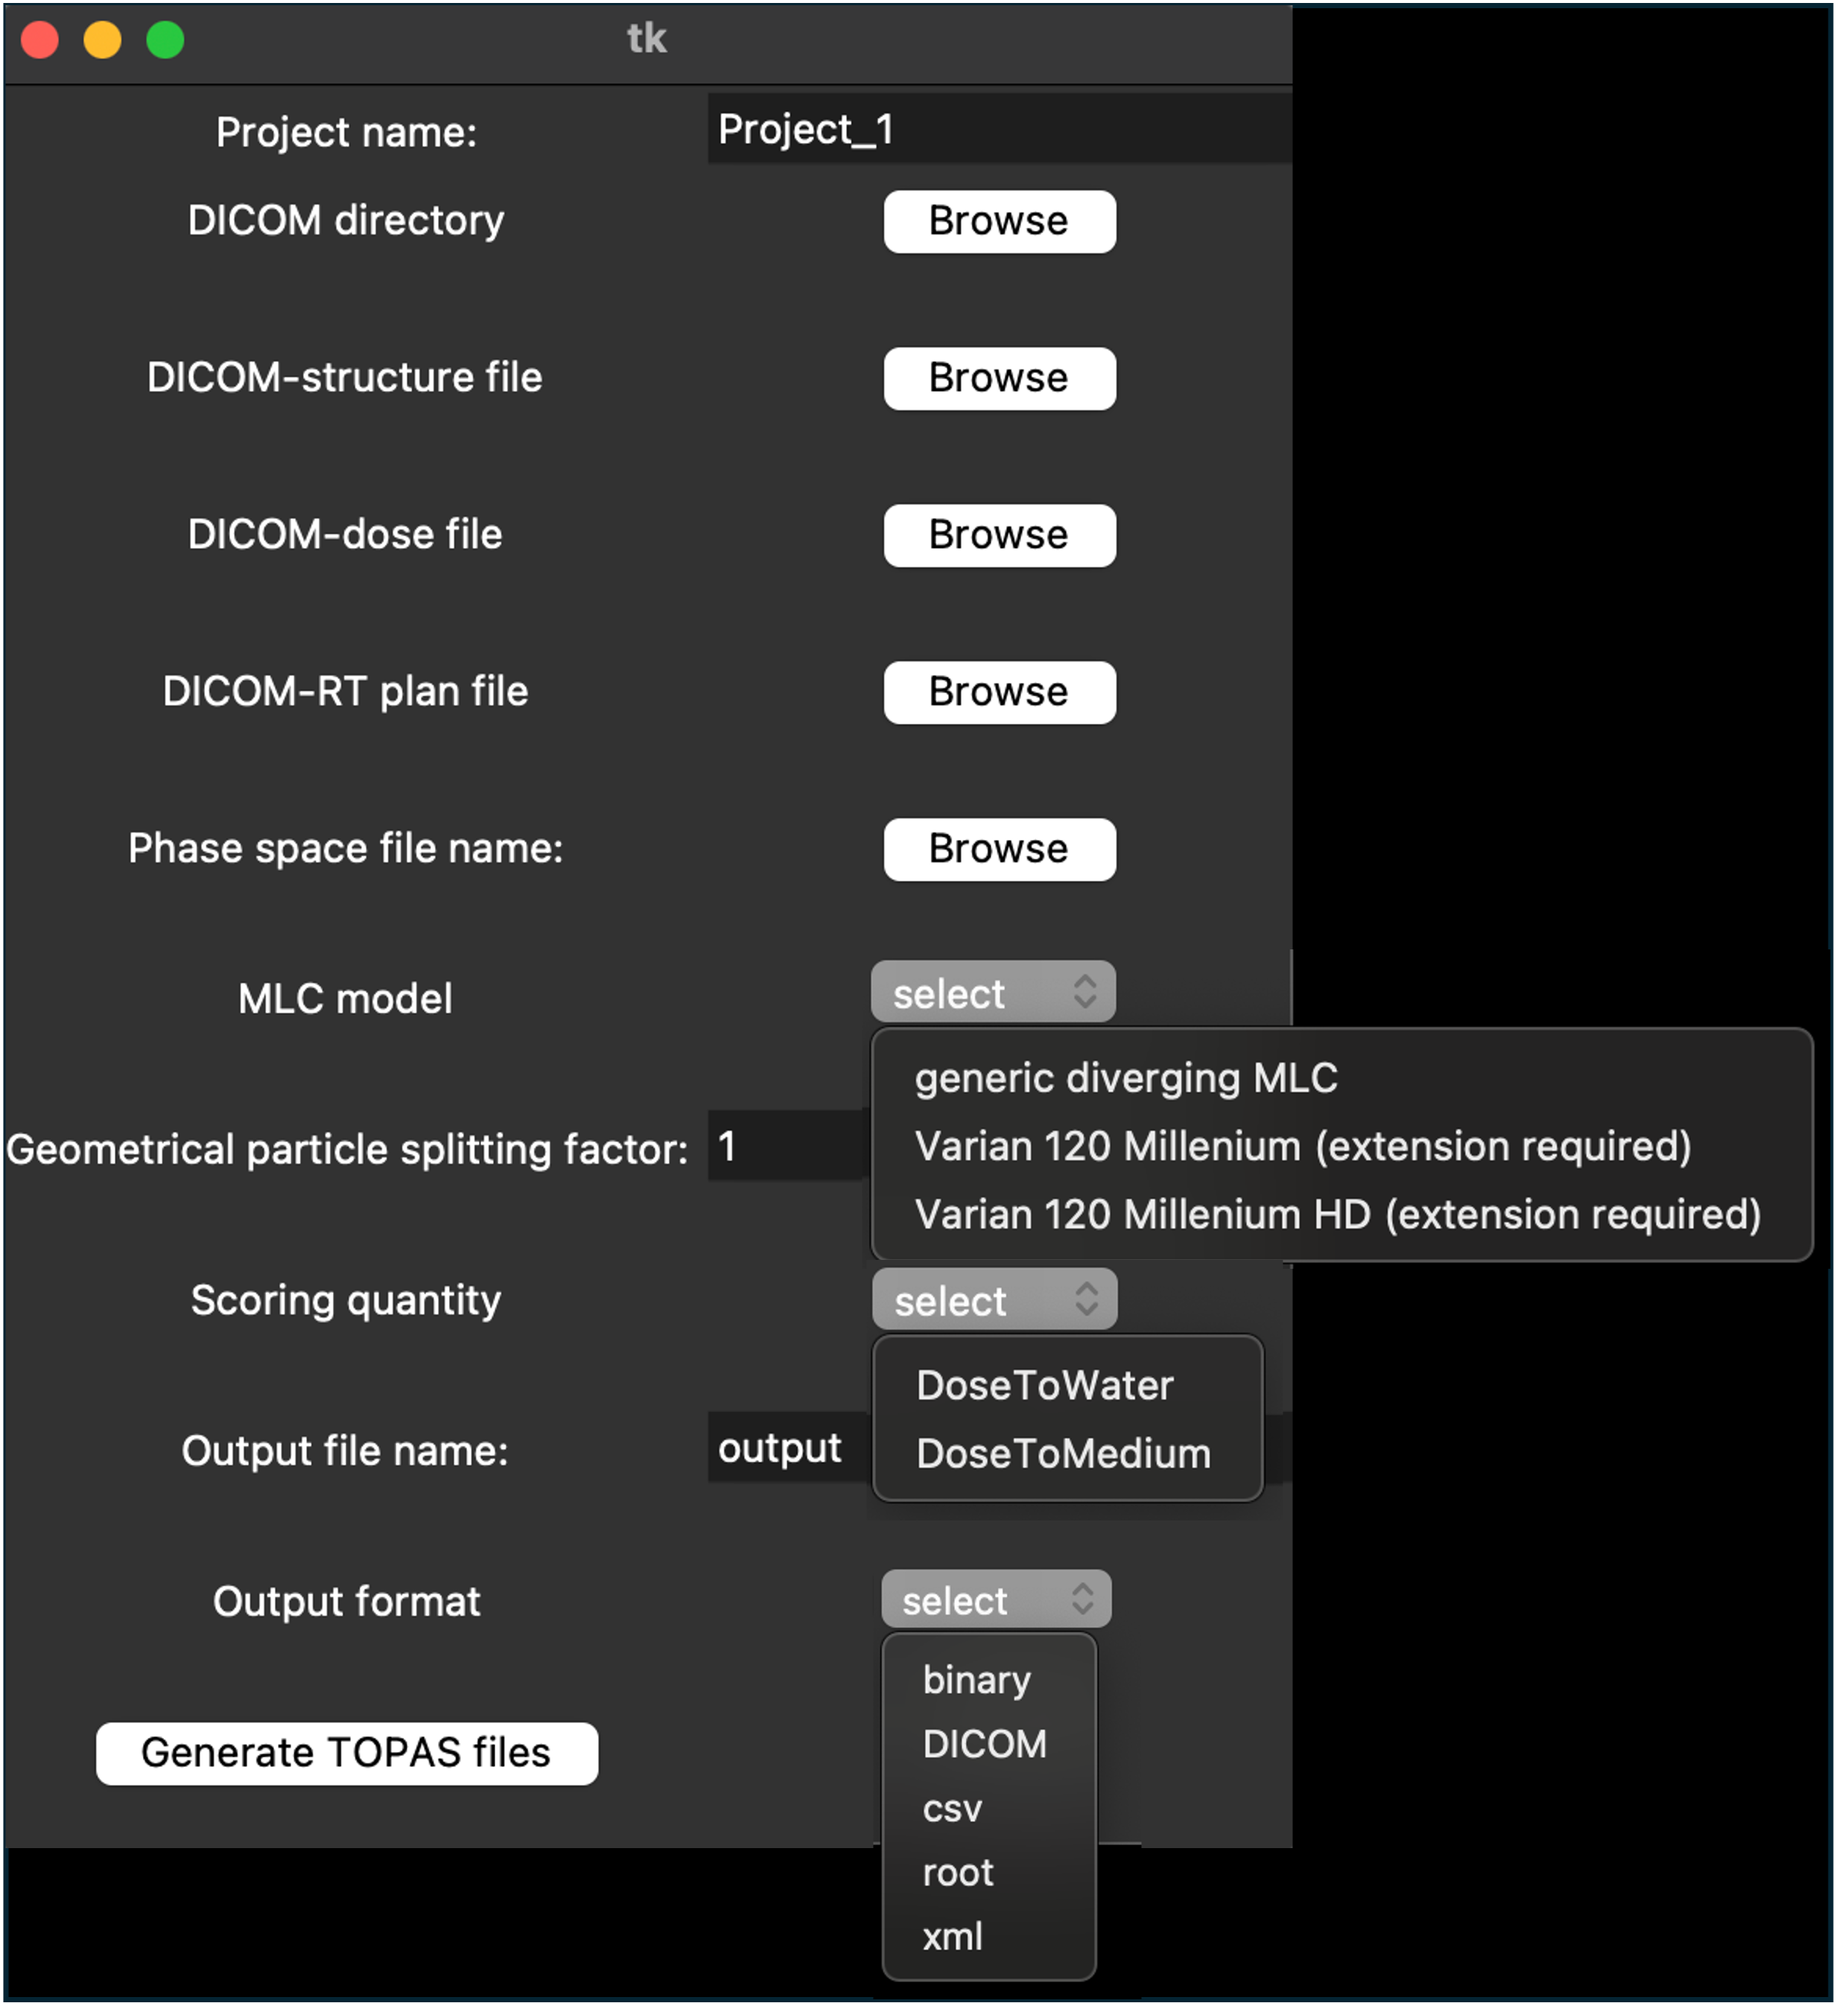
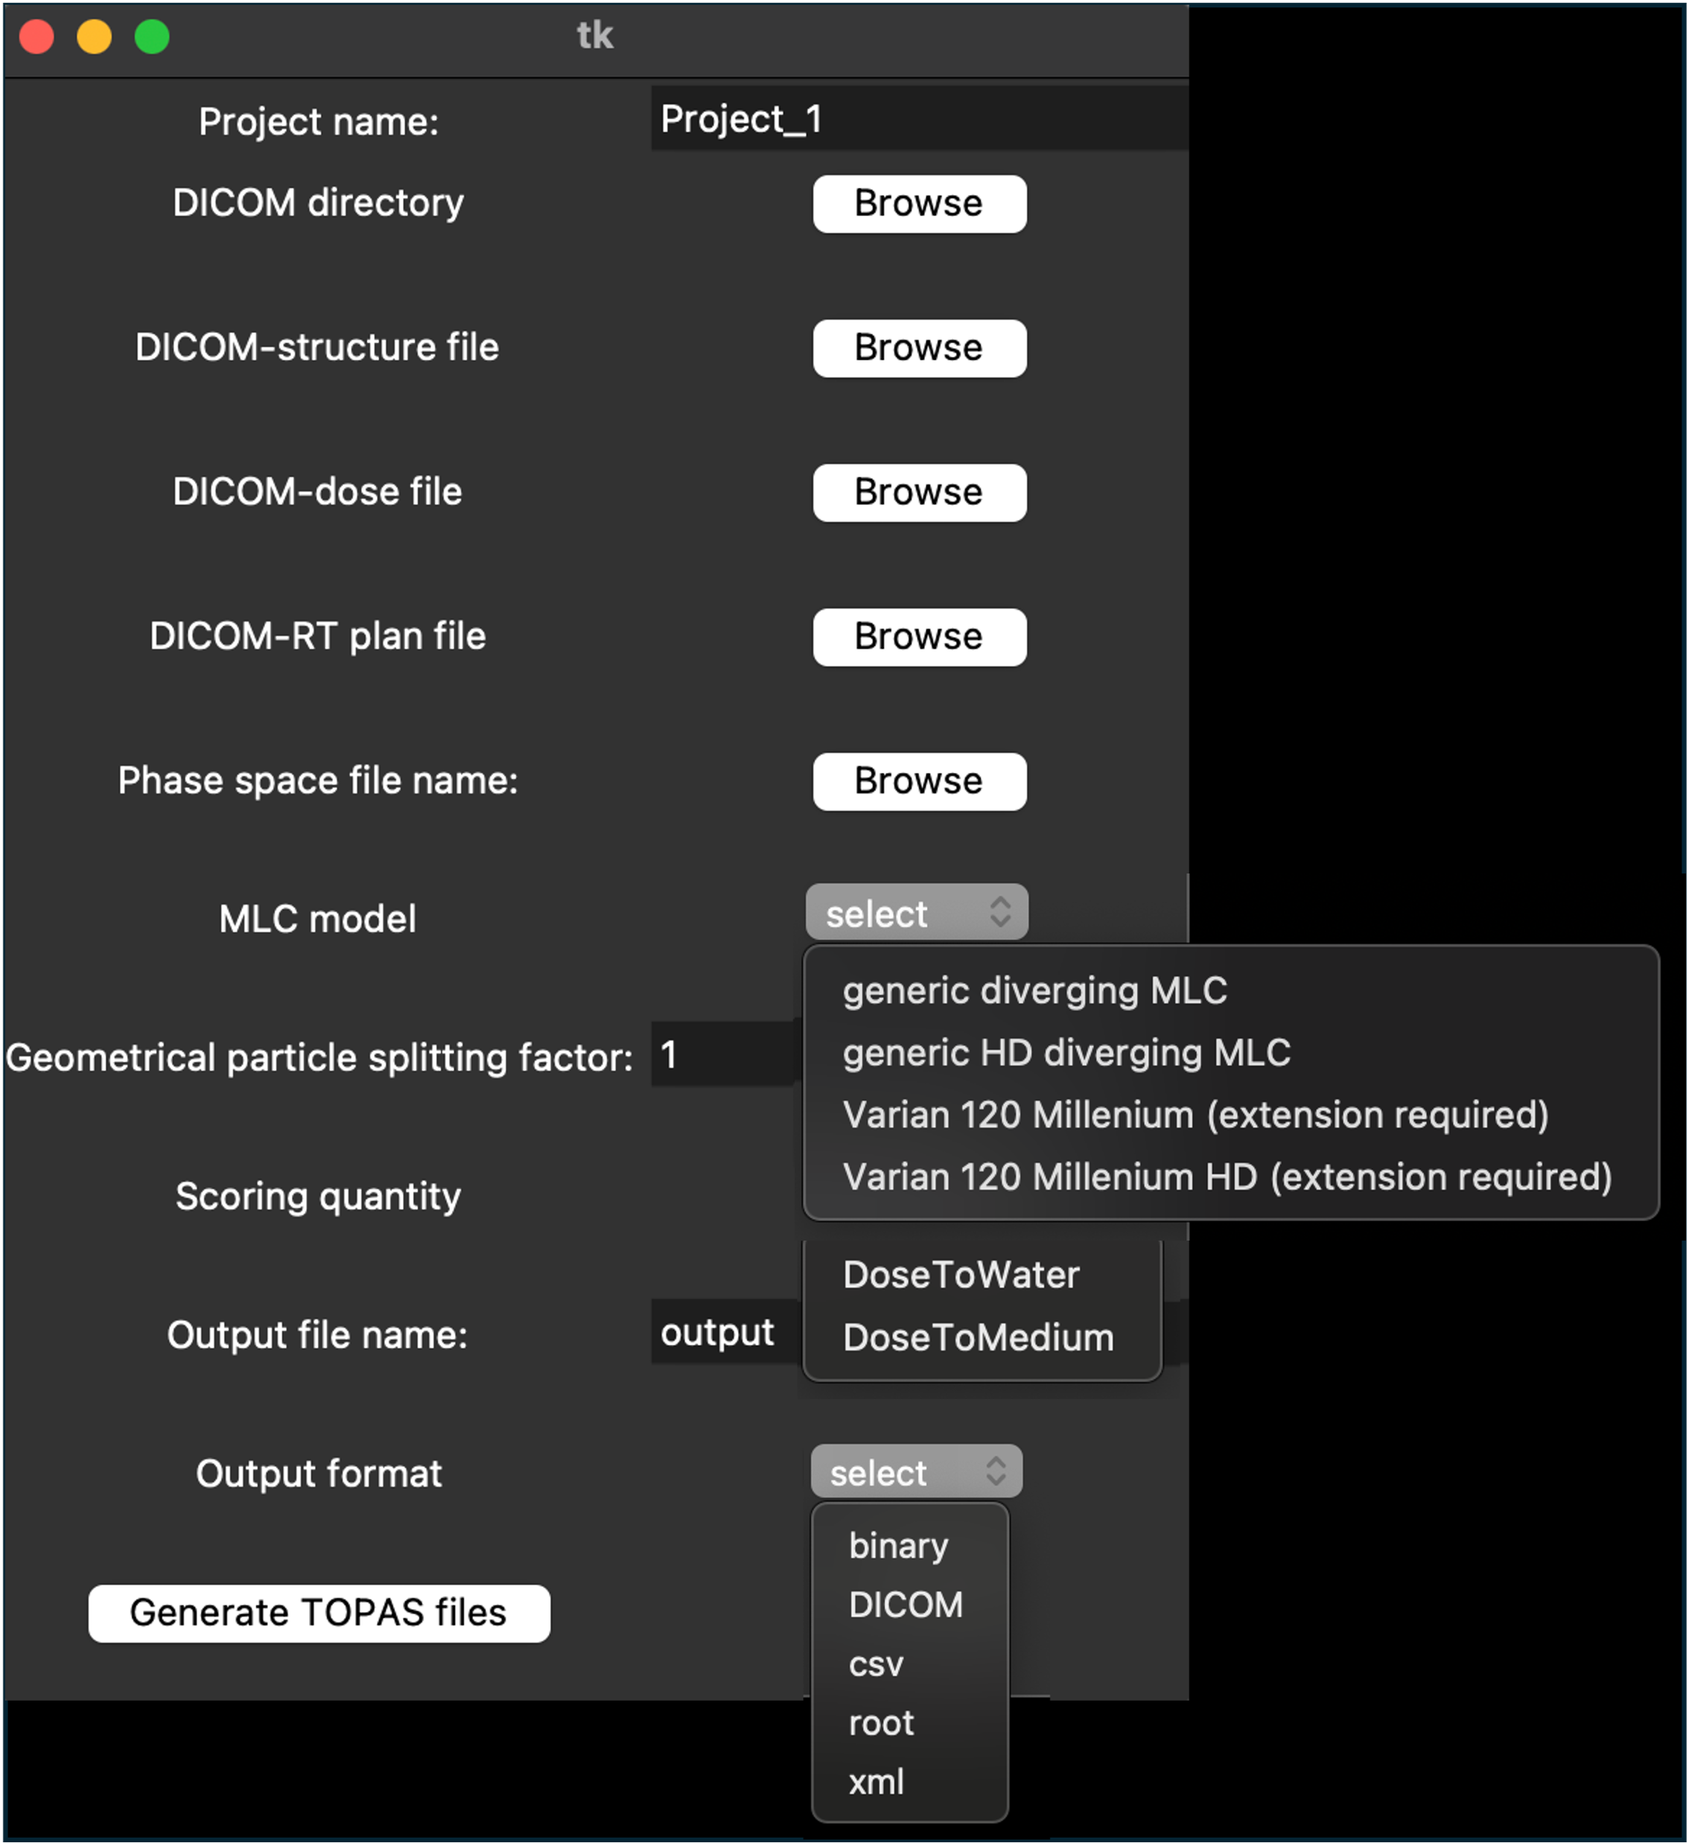
changes to include genericHD MLC

Changed region(s): [[0.463, 0.4667, 1.0, 0.6844]]

diff --git a/write_PCF.py b/write_PCF.py
@@ -162,7 +162,7 @@ def WritePlanParameterFile(DATA,CT_DATA,PLAN_DATA):
     parFile.write('d:Ge/PhSpY2 = 0.75 * Tf/JawY2/Value cm\n')
     parFile.write('\n')
     parFile.write('\n')
-    if DATA["MLC_model"] == "generic":
+    if DATA["MLC_model"] == "generic" or DATA["MLC_model"] == "generichd":
         parFile.write('dv:Ge/MLC/NegativeFieldSetting = 60 ')
         for i in range(1,60+1,1):
             parFile.write('Tf/MLCX1_%d/Value ' % i)
@@ -319,11 +319,18 @@ def WriteGeometryFile(DATA,ROI_DATA):
     if DATA["MLC_model"] == "VarianMillenium" or DATA["MLC_model"] == "VarianMilleniumHD":
         parFile.write('d:Ge/MLCPos/TransZ = 49.02 cm\n')
     parFile.write('\n')
-    generic_thickness   = 5.61 # cm
-    generic_distToIso   = 49.02
-    generic_SAD         = 100.0
-    generic_SUSD        = generic_SAD - generic_distToIso - generic_thickness*0.5
-    if DATA["MLC_model"] == "generic":
+    
+    if DATA["MLC_model"] == "generic" or DATA["MLC_model"] == "generichd":
+        parFile.write(' # --- %s selected\n' %(DATA["MLC_model"]))
+        parFile.write('### IMPORTANT NOTE\n')
+        parFile.write('#    generic and genericHD specifications from literature (see write_PCF.py for references)\n')
+        parFile.write('#    user: change values if more accurate data is available\n')
+        parFile.write('\n')
+        generic_thickness     = 6.7 # cm
+        genericHD_thickness   = 6.9 # cm
+        generic_distToIso     = 49.0 # cm 
+        generic_SAD           = 100.0 # cm
+        generic_SUSD          = generic_SAD - generic_distToIso - generic_thickness*0.5       
         parFile.write('s:Ge/MLC/Type = "TsDivergingMLC"\n')
         parFile.write('s:Ge/MLC/Parent = "MLCPos"\n')
         parFile.write('s:Ge/MLC/Material = "G4_W"\n')
@@ -332,19 +339,29 @@ def WriteGeometryFile(DATA,ROI_DATA):
         parFile.write('d:Ge/MLC/SAD = %s cm\n' %generic_SAD)
         parFile.write('d:Ge/MLC/SourceToUpstreamSurfaceDistance = %s cm\n' %generic_SUSD)
         parFile.write('d:Ge/MLC/DistSourceToSAD = Ge/MLC/SAD - Ge/MLC/SourceToUpstreamSurfaceDistance cm\n')
-        parFile.write('d:Ge/MLC/Thickness = %s cm\n' %generic_thickness) 
-        parFile.write('d:Ge/MLC/HalfThickness = 0.5 * Ge/MLC/Thickness cm\n')
         parFile.write('d:Ge/MLC/MaxLeafOpen = 20 cm\n')
         parFile.write('d:Ge/MLC/Length = 19 cm\n')
         parFile.write('s:Ge/MLC/LeafTravelAxis = "Xb"\n')
         parFile.write('dv:Ge/MLC/LeafWidths = 60 ')
-        for leaf_pair in range(60):
-            leaf_pair += 1
-            if leaf_pair > 10 and leaf_pair < 51: # 14 and 47 to reproduce HD120
-                parFile.write('5.0 ') # 2.5 to reproduce HD120
-            else:
-                parFile.write('10.0 ') # 5 to reproduce HD120              
-        parFile.write('mm\n')
+        if DATA["MLC_model"] == "generic":
+            for leaf_pair in range(60):
+                leaf_pair += 1
+                if leaf_pair > 10 and leaf_pair < 51: 
+                    parFile.write('5.0 ') 
+                else:
+                    parFile.write('10.0 ') 
+            parFile.write('mm\n')
+            parFile.write('d:Ge/MLC/Thickness = %s cm\n' %generic_thickness) 
+        else:
+            for leaf_pair in range(60):
+                leaf_pair += 1
+                if leaf_pair > 14 and leaf_pair < 47:
+                    parFile.write('2.5 ')
+                else:
+                    parFile.write('5.0 ')
+            parFile.write('mm\n')
+            parFile.write('d:Ge/MLC/Thickness = %s cm\n' %genericHD_thickness)  
+        parFile.write('d:Ge/MLC/HalfThickness = 0.5 * Ge/MLC/Thickness cm\n')
         parFile.write('d:Ge/MLC/TransZ = Ge/MLC/DistSourceToSAD - Ge/MLC/HalfThickness cm\n')
         parFile.write('#d:Ge/MLCPos/RotZ = -1 * Ge/Collimator_Angle deg\n')
         parFile.write('\n')
@@ -547,4 +564,10 @@ def WriteMainFile(DATA,PLAN_DATA):
     parFile.write('i:Ts/ParameterizationErrorMaxCount = 1000000000\n')
     parFile.write('i:Ts/ParameterizationErrorMaxReports = 10\n')
     parFile.write('\n')
-    
+
+# References
+# 10.1016/j.rpor.2018.09.001
+# 10.1186/1748-717X-4-22
+# 10.1002/acm2.12197
+# 10.1120/jacmp.v12i3.3475
+# https://www.oncologysystems.com/resources/linear-accelerator-guides/varian-high-energy-linear-accelerators-comparison-chart/

diff --git a/input_handling.py b/input_handling.py
@@ -22,8 +22,10 @@ def exitProgram():
 def EvaluateCorrectInputData(DATA):
     warnings = 0
 
-    if DATA["MLC_model"] == 'generic diverging MLC' or DATA["MLC_model"] == 'generic':
+    if DATA["MLC_model"] == 'generic diverging mlc' or DATA["MLC_model"] == 'generic':
         DATA["MLC_model"] = "generic"
+    if DATA["MLC_model"] == 'generic hd diverging mlc' or DATA["MLC_model"] == 'generichd':
+        DATA["MLC_model"] = "generichd"
     elif DATA["MLC_model"] == 'varian 120 millenium (extension required)' or DATA["MLC_model"] == 'varian':
         DATA["MLC_model"] = "VarianMillenium"
     elif DATA["MLC_model"] == 'varian 120 millenium hd (extension required)' or DATA["MLC_model"] == 'varianhd':
@@ -32,7 +34,6 @@ def EvaluateCorrectInputData(DATA):
         print("--- WARNING: No valid MLC model selected (%s) - generic divergent MLC used by default" %DATA["MLC_model"])
         DATA["MLC_model"] = "generic"
         warnings +=1
-
     if type(DATA["multipleUse"]) != 'int':
         try:
             DATA["multipleUse"] = int(DATA["multipleUse"])
@@ -114,43 +115,46 @@ def InputDataInputFileMode(inputFile):
 ############################################################################################################################################
 ############################################################################################################################################
 
-### functions to handle the GUI
-global dicomDirectoryName
-def browse_dicom_button():
-    global dicomDirectoryName 
-    filename = filedialog.askdirectory()
-    dicomDirectoryName.set(filename)
 
-global dicomStructureFileName
-def browse_dicom_structure_button():
-    global dicomStructureFileName 
-    filename = filedialog.askopenfilename() 
-    dicomStructureFileName.set(filename)
-
-global dicomDoseFileName
-def browse_dicom_dose_button():
-    global dicomDoseFileName 
-    filename = filedialog.askopenfilename() 
-    dicomDoseFileName.set(filename)
-
-global dicomRTplanFileName
-def browse_dicom_RTplan_button():
-    global dicomRTplanFileName 
-    filename = filedialog.askopenfilename() 
-    dicomRTplanFileName.set(filename)
-
-global phspFileName
-def browse_phsp_button():
-    global phspFileName 
-    filename = filedialog.askopenfilename() 
-    phspFileName.set(filename)
 
 def _quit():
     root.quit()
     root.destroy() 
 
 def InputDataInputGUIMode():
-    root = Tk()
+
+    ### functions to handle the GUI
+    global dicomDirectoryName
+    def browse_dicom_button():
+        global dicomDirectoryName 
+        filename = filedialog.askdirectory()
+        dicomDirectoryName.set(filename)
+    
+    global dicomStructureFileName
+    def browse_dicom_structure_button():
+        global dicomStructureFileName 
+        filename = filedialog.askopenfilename() 
+        dicomStructureFileName.set(filename)
+    
+    global dicomDoseFileName
+    def browse_dicom_dose_button():
+        global dicomDoseFileName 
+        filename = filedialog.askopenfilename() 
+        dicomDoseFileName.set(filename)
+    
+    global dicomRTplanFileName
+    def browse_dicom_RTplan_button():
+        global dicomRTplanFileName 
+        filename = filedialog.askopenfilename() 
+        dicomRTplanFileName.set(filename)
+    
+    global phspFileName
+    def browse_phsp_button():
+        global phspFileName 
+        filename = filedialog.askopenfilename() 
+        phspFileName.set(filename)
+    
+    global root; root = Tk()
     root.title("TPS2TOPAS Interface")
     ################
     i = 1
@@ -242,7 +246,7 @@ def InputDataInputGUIMode():
     lbl6.grid(row=i, column=1)
     MLCmodel = StringVar()
     MLCmodel.set('select')
-    options = ["generic diverging MLC", "Varian 120 Millenium (extension required)", "Varian 120 Millenium HD (extension required)"]
+    options = ["generic diverging MLC","generic HD diverging MLC", "Varian 120 Millenium (extension required)", "Varian 120 Millenium HD (extension required)"]
     MLCentry = OptionMenu(root , MLCmodel , *options)
     MLCentry.grid(row=i, column=2)
 

diff --git a/plan_data.py b/plan_data.py
@@ -236,18 +236,18 @@ def RetrievePlanData(DATA):
                                         if not i in TsMLCX1:
                                             TsMLCX1[i] = []
                                             #MLCX1[i] = []
-                                        if DATA["MLC_model"] == "generic":
+                                        if DATA["MLC_model"] == "generic" or DATA["MLC_model"] == "generichd":
                                             MLCX1[i] = (collimator[0x300a,0x011c][i-1]/10) #in cm
-                                        if DATA["MLC_model"] == "VarianMillenium" or MLC_model == "VarianMilleniumHD":
+                                        if DATA["MLC_model"] == "VarianMillenium" or DATA["MLC_model"] == "VarianMilleniumHD":
                                             MLCX1[i] = (-collimator[0x300a,0x011c][i-1]/10) #in cm   
                                     else:
                                         i2 = str(int(i - number_of_leaves/2))
                                         if not i2 in TsMLCX2:
                                             TsMLCX2[i2] = []
                                             #MLCX2[i2] = []
-                                        if DATA["MLC_model"] == "generic":
+                                        if DATA["MLC_model"] == "generic" or DATA["MLC_model"] == "generichd":
                                             MLCX2[i2] = (collimator[0x300a,0x011c][i-1]/10) #in cm
-                                        if DATA["MLC_model"] == "VarianMillenium" or MLC_model == "VarianMilleniumHD":
+                                        if DATA["MLC_model"] == "VarianMillenium" or DATA["MLC_model"] == "VarianMilleniumHD":
                                             MLCX2[i2] = (collimator[0x300a,0x011c][i-1]/10)                                                 
                         else:
                             if collimator.RTBeamLimitingDeviceType[-1] == "X":

diff --git a/README.md b/README.md
@@ -56,12 +56,13 @@ TPS2TOPAS requires user input. Find a list of the information required:
 4. path to DICOM-dose file
 5. path to DICOM-RT plan file
 6. path to phase space file name
-7. MLC model: "generic", "Varian" or "VarianHD"
+7. MLC model: "generic", genericHD, "Varian" or "VarianHD"
 8. Geometrical particle splitting factor (integer number)
 9. Scoring quantity: "DoseToWater" or "DoseToMedium
 10. Output file name
 11. Output file format: "binary", "DICOM", "csv", "root" or "xml"
 
+Generic and GenericHD options in (7) will use the generic TsDivergingMLC TOPAS component with the specifications for the Millenium 120 MLC and Millenium 120 HDMLC, respectively (specifications from literature; see write_PCF.py for details)).
 For a complete description of these parameters, please see the publication ([https://doi.org/10.1016/j.ejmp.2024.104485](https://doi.org/10.1016/j.ejmp.2024.104485)).
 
 > [!NOTE]
